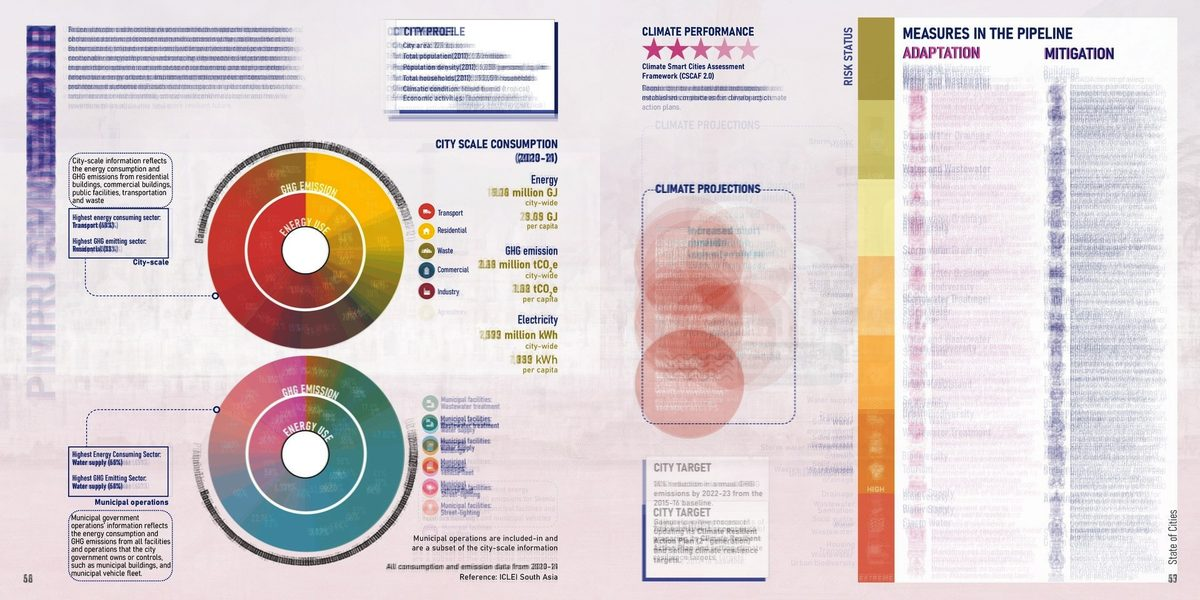
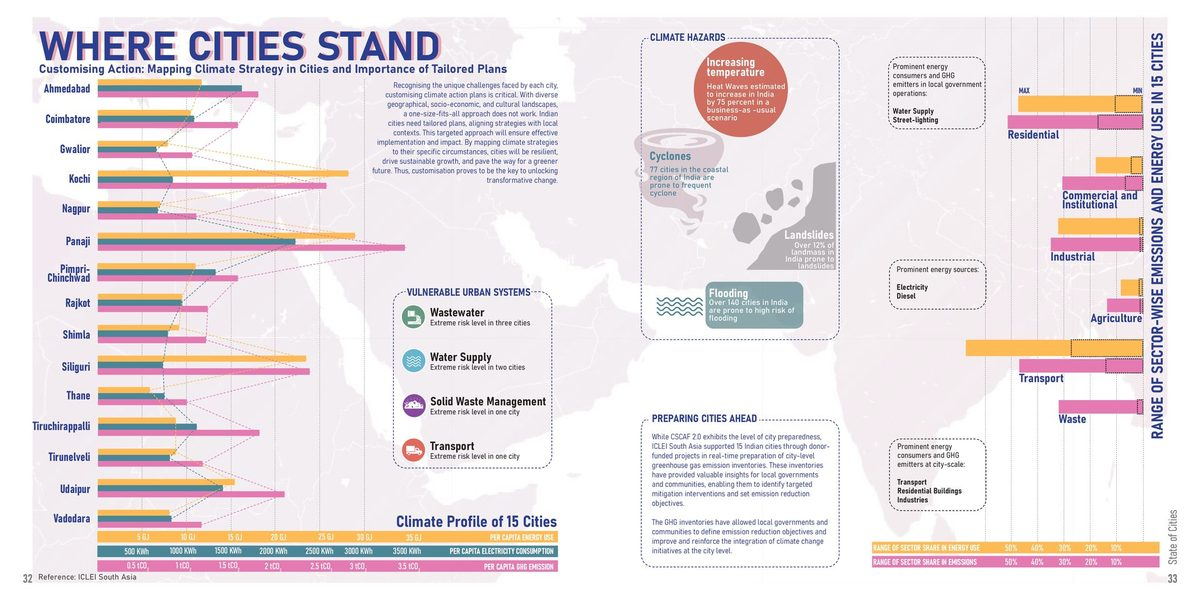
feat(state-of-cities): city carousel replaces the ghost viewer; Where Cities Stand added
- chapter 03: stat row → SOC_06 full-width plate (fig.05) → full-width carousel of the fifteen
  spreads (prev/next, fifteen-segment rule, arrow keys, swipe, lightbox on click) → text | ledger;
  a ledger row turns the carousel to that city
- ghost.jpg dropped from the page and the homepage thumb (SOC_06 instead); ghost.py kept
- phone pager shows arrows + position only

Claude-Session: https://claude.ai/code/session_01DqT15YNr42vTZSfnF1pZUZ

diff --git a/src/assets/js/main.js b/src/assets/js/main.js
@@ -331,7 +331,7 @@
         a.addEventListener("click", function (ev) { ev.preventDefault(); closeProject(); });
       });
       pageBody.appendChild(clone);
-      initViewer(clone);
+      initCarousel(clone);
       initLightbox(clone);
       pageBody.hidden = false;
       if (jsonBody) jsonBody.hidden = true;
@@ -492,93 +492,85 @@
     if (lbLastFocus && lbLastFocus.focus) { try { lbLastFocus.focus({ preventScroll: true }); } catch (e) {} }
   }
 
-  /* ---------- ghost viewer — one averaged plate that resolves into a city from its ledger ----------
-     Hover (mouse only) or focus a ledger row: the city image is shown once it has decoded, so the
-     crossfade never pops; leave and it returns to the ghost (or to the held city). Click / Enter
-     holds; click again or Esc releases. Touch has no hover, so tap = hold. Clicking the image
-     opens the lightbox on the fifteen cities, at the held one. The fifteen resolve renditions are
-     prefetched once the viewer scrolls into view. Without JS the rows are plain links. */
-  function initViewer(root) {
+  /* ---------- city carousel — one spread at full width; the ledger beside the text is its index ----------
+     Prev / next links, the fifteen-segment rule and the ledger rows all turn to a city; arrow keys
+     work while focus is inside the chapter; swipe on touch. The image is swapped only after it has
+     decoded (a short fade out / in, never a pop). Clicking the image opens the lightbox on the full
+     set at the current city. The 1024px renditions are prefetched once the carousel is near view. */
+  function initCarousel(root) {
     if (!root) return;
-    root.querySelectorAll(".chap--viewer").forEach(function (chap) {
-      var v = chap.querySelector(".viewer"), city = v && v.querySelector(".viewer__city");
-      var capN = v && v.querySelector(".plate__cap .n"), capT = v && v.querySelector(".plate__cap .t");
+    root.querySelectorAll(".chap--carousel").forEach(function (chap) {
+      var car = chap.querySelector("[data-carousel]");
       var rows = Array.prototype.slice.call(chap.querySelectorAll(".ledger a[data-src]"));
-      if (!v || !city || !rows.length) return;
-      var ghostN = capN.textContent, ghostT = capT.innerHTML;
-      var canHover = window.matchMedia("(hover:hover)").matches;
-      var held = null, timer = null, token = 0;
+      if (!car || !rows.length) return;
+      var img = car.querySelector(".carousel__img"), capN = car.querySelector(".plate__cap .n"), capT = car.querySelector(".plate__cap .t");
+      var prev = car.querySelector("[data-step='-1']"), next = car.querySelector("[data-step='1']"), pos = car.querySelector(".carousel__pos");
+      var segs = Array.prototype.slice.call(car.querySelectorAll(".carousel__rule a"));
+      var n = rows.length, idx = 0, token = 0;
+      var two = function (k) { return (k < 10 ? "0" : "") + k; };
 
-      function show(row) {
-        var my = ++token;
-        capN.textContent = row.dataset.fig;
-        capT.textContent = row.dataset.cap;
-        var im = new Image();
-        im.src = row.dataset.src;
-        var ready = im.decode ? im.decode() : Promise.resolve();
-        ready.then(function () {
+      function show(i, scroll) {
+        idx = (i + n) % n;
+        var row = rows[idx], my = ++token;
+        rows.forEach(function (r, k) { r.classList.toggle("on", k === idx); });
+        segs.forEach(function (a, k) { a.classList.toggle("on", k === idx); });
+        var p = rows[(idx - 1 + n) % n], q = rows[(idx + 1) % n];
+        prev.innerHTML = "(&larr;<span class=\"long\"> " + p.dataset.city.toLowerCase() + "</span>)"; prev.href = p.href;
+        next.innerHTML = "(<span class=\"long\">" + q.dataset.city.toLowerCase() + " </span>&rarr;)"; next.href = q.href;
+        pos.innerHTML = two(idx + 1) + " / " + two(n) + " · " + row.dataset.city.toLowerCase() + "<span class=\"long\"> · " + (row.dataset.cap.split(" · ")[1] || "").replace(" inventory", "") + "</span>";
+        var im = new Image(); im.src = row.dataset.src;
+        car.classList.add("is-swapping");
+        (im.decode ? im.decode() : Promise.resolve()).then(function () {
           if (my !== token) return;
-          city.src = row.dataset.src; city.alt = row.dataset.city;
-          v.classList.add("on"); row.classList.remove("err");
-        }, function () {
-          if (my !== token) return;
-          row.classList.add("err"); reset(true);
-        });
+          img.src = row.dataset.src; img.alt = row.dataset.city;
+          capN.textContent = row.dataset.fig; capT.textContent = row.dataset.cap;
+          car.classList.remove("is-swapping"); row.classList.remove("err");
+        }, function () { if (my === token) { car.classList.remove("is-swapping"); row.classList.add("err"); } });
+        if (scroll) car.scrollIntoView({ block: "nearest", behavior: "smooth" });
       }
-      function reset(force) {
-        if (held && !force) { show(held); return; }
-        token++;
-        v.classList.remove("on");
-        city.removeAttribute("src"); city.alt = "";
-        capN.textContent = ghostN; capT.innerHTML = ghostT;
-      }
-      function hold(row) {
-        rows.forEach(function (r) { r.classList.remove("on"); });
-        if (held === row) { held = null; reset(); }
-        else { held = row; row.classList.add("on"); show(row); }
-      }
-      rows.forEach(function (row) {
-        if (canHover) {
-          row.addEventListener("pointerenter", function () { clearTimeout(timer); show(row); });
-          row.addEventListener("pointerleave", function () { timer = setTimeout(function () { reset(); }, 120); });
-        }
-        row.addEventListener("focus", function () { show(row); });
-        row.addEventListener("blur", function () { reset(); });
-        row.addEventListener("click", function (e) { e.preventDefault(); hold(row); });
-      });
-      v.addEventListener("pointerenter", function () { clearTimeout(timer); });
+      prev.addEventListener("click", function (e) { e.preventDefault(); show(idx - 1); });
+      next.addEventListener("click", function (e) { e.preventDefault(); show(idx + 1); });
+      segs.forEach(function (a, k) { a.addEventListener("click", function (e) { e.preventDefault(); show(k); }); });
+      rows.forEach(function (r, k) { r.addEventListener("click", function (e) { e.preventDefault(); show(k, true); }); });
       chap.addEventListener("keydown", function (e) {
-        if (e.key === "Escape" && held) { held = null; rows.forEach(function (r) { r.classList.remove("on"); }); reset(); }
+        if (e.key === "ArrowRight") { e.preventDefault(); show(idx + 1); }
+        else if (e.key === "ArrowLeft") { e.preventDefault(); show(idx - 1); }
       });
-
-      // the image opens the lightbox on the fifteen, in ledger order, at the held city
+      // swipe on touch
+      var px = null, box = car.querySelector(".plate__img");
+      box.addEventListener("pointerdown", function (e) { if (e.pointerType !== "mouse") px = e.clientX; }, { passive: true });
+      box.addEventListener("pointerup", function (e) {
+        if (px === null) return;
+        var dx = e.clientX - px; px = null;
+        if (Math.abs(dx) > 40) { e.preventDefault(); show(dx < 0 ? idx + 1 : idx - 1); box.dataset.swiped = "1"; }
+      });
+      // the image opens the lightbox on the full set, at the current city
       var items = rows.map(function (row) {
         return { src: row.dataset.full || row.dataset.src, alt: row.dataset.city, w: row.dataset.w, h: row.dataset.h, n: row.dataset.fig, t: row.dataset.cap };
       });
-      var box = v.querySelector(".plate__img");
       box.classList.add("lb-src");
       box.setAttribute("tabindex", "0");
       box.setAttribute("role", "button");
       box.setAttribute("aria-label", "open the city spreads");
-      function openSet() { openLightbox(items, held ? rows.indexOf(held) : 0, box); }
+      function openSet() { if (box.dataset.swiped) { delete box.dataset.swiped; return; } openLightbox(items, idx, box); }
       box.addEventListener("click", openSet);
       box.addEventListener("keydown", function (e) { if (e.key === "Enter" || e.key === " ") { e.preventDefault(); openSet(); } });
-
-      // prefetch the resolve renditions once the viewer is near the viewport
+      // prefetch the renditions once the carousel is near the viewport
       function prefetch() { rows.forEach(function (row) { var im = new Image(); im.src = row.dataset.src; }); }
       if ("IntersectionObserver" in window) {
         var io = new IntersectionObserver(function (en) {
           if (en.some(function (e) { return e.isIntersecting; })) { prefetch(); io.disconnect(); }
-        }, { rootMargin: "200px" });
-        io.observe(v);
+        }, { rootMargin: "300px" });
+        io.observe(car);
       } else { prefetch(); }
+      show(0);
     });
   }
 
   function initLightbox(root) {
     if (!root) return;
     var imgs = Array.prototype.slice.call(root.querySelectorAll(".plate__img img, .strip img, .g__frame img"))
-      .filter(function (img) { return !img.closest(".viewer"); }); // the ghost viewer registers its own set
+      .filter(function (img) { return !img.closest("[data-carousel]"); }); // the city carousel registers its own set
     if (!imgs.length) return;
     var items = imgs.map(function (img) {
       var c = captionFor(img);
@@ -596,6 +588,6 @@
       });
     });
   }
-  initViewer(document.querySelector("article.detail"));
+  initCarousel(document.querySelector("article.detail"));
   initLightbox(document.querySelector("article.detail"));
 })();

diff --git a/src/assets/css/main.css b/src/assets/css/main.css
@@ -437,19 +437,26 @@ body.lb-open{overflow:hidden;}
 .stats .l{font-family:var(--mono);font-size:11px;letter-spacing:.06em;color:var(--faint-2);margin-top:10px;}
 .stats .src{grid-column:1 / -1;font-size:12.5px;color:var(--faint);}
 
-/* ---------- ghost viewer: one averaged plate, pinned, that resolves into a city from the ledger ----------
-   The pin wrapper is a full-width item of the same grid as the text and the ledger, so it stays
-   pinned for the whole ledger. top = header height; the padding closes the slot under it. */
-.chap--viewer{row-gap:40px;}
-.chap--viewer .chap__txt{position:static;}
-.chap__pin{grid-column:1 / -1;position:sticky;top:62px;z-index:2;background:var(--paper);padding-top:26px;padding-bottom:12px;}
-.viewer{width:clamp(320px,calc(2 * (100vh - 88px - 460px)),100%);margin:0 auto;}
-.viewer .plate__img{aspect-ratio:2 / 1;overflow:hidden;}
-.viewer .plate__img > img{position:absolute;inset:0;width:100%;height:100%;object-fit:contain;transition:opacity .45s cubic-bezier(.16,1,.3,1);}
-.viewer .viewer__city{opacity:0;}
-.viewer.on .viewer__city{opacity:1;}
-.viewer .plate__cap{max-width:none;}
-.viewer__short,.touch-only,.js-only{display:none;}
+/* ---------- city carousel: one spread at full width, a mono pager, a fifteen-segment rule ----------
+   The ledger beside the text is its index: clicking a row turns to that city. */
+.chap--carousel{row-gap:40px;}
+.chap--carousel .chap__txt{position:static;}
+.carousel .plate__img{aspect-ratio:2 / 1;}
+.carousel__img{transition:opacity .35s cubic-bezier(.16,1,.3,1);}
+.carousel.is-swapping .carousel__img{opacity:0;}
+.carousel .plate__cap{max-width:none;}
+.carousel__nav{display:flex;align-items:baseline;justify-content:space-between;gap:16px;margin-top:16px;
+  font-family:var(--mono);font-size:11.5px;letter-spacing:.04em;color:var(--faint-2);}
+.carousel__nav a{color:var(--mute);text-decoration:none;white-space:nowrap;}
+.carousel__nav a:hover,.carousel__nav a:focus-visible{color:var(--ink);}
+.carousel__pos{color:var(--ink);text-align:center;}
+.carousel__rule{display:flex;gap:3px;height:12px;margin-top:12px;}
+.carousel__rule a{flex:1;position:relative;}
+.carousel__rule a::after{content:"";position:absolute;left:0;right:0;top:5px;height:2px;background:var(--line);opacity:.55;}
+.carousel__rule a:hover::after,.carousel__rule a:focus-visible::after{opacity:1;}
+.carousel__rule a.on::after{background:var(--accent);opacity:1;}
+.carousel__rule a:focus-visible{outline:none;} .carousel__rule a:focus-visible::after{height:4px;top:4px;}
+.short,.touch-only,.js-only{display:none;}
 .js .js-only{display:inline;}
 .ledger{margin:0;padding:0;list-style:none;}
 .ledger a{display:grid;grid-template-columns:9.5em 1fr 3.4em 4.8em;align-items:center;gap:0 10px;padding:8px 0;
@@ -459,12 +466,9 @@ body.lb-open{overflow:hidden;}
 .ledger__b{position:absolute;inset:0 auto 0 0;background:var(--accent);transition:background .2s;}
 .ledger__v,.ledger__s{font-family:var(--mono);font-size:10.5px;color:var(--faint);}
 .ledger__s{color:var(--faint-2);letter-spacing:0;text-align:right;}
-.ledger__h{display:none;font-family:var(--mono);font-size:10px;letter-spacing:.06em;color:var(--accent);text-align:right;}
 .ledger a:focus-visible{color:var(--ink);outline:2px solid var(--accent);outline-offset:2px;}
 .ledger a.on{color:var(--accent);}
 .ledger a.on .ledger__b{background:var(--ink);}
-.ledger a.on .ledger__s{display:none;}
-.ledger a.on .ledger__h{display:block;}
 .ledger a.err .ledger__v::after{content:" (missing)";color:var(--faint-2);}
 .ledger__u{font-family:var(--mono);font-size:10px;color:var(--faint-2);margin-top:8px;text-align:right;}
 @media(hover:hover){
@@ -475,12 +479,6 @@ body.lb-open{overflow:hidden;}
   .touch-only{display:inline;} .hover-only{display:none;}
   .ledger a{min-height:44px;}
 }
-@media(max-height:640px){
-  .chap__pin{position:static;padding-top:0;}
-  .viewer{width:100%;}
-}
-/* inside the homepage overlay the panel scrolls, not the window, and there is no header above */
-.pv__page .chap__pin{top:0;padding-top:0;}
 
 /* (outcome): the landing before (next) — same (label)/value vocabulary as the meta row */
 .detail__outcome{display:grid;grid-template-columns:repeat(12,1fr);column-gap:clamp(20px,3vw,40px);row-gap:28px;
@@ -531,9 +529,8 @@ body.lb-open{overflow:hidden;}
   .detail__outcome > div{grid-column:1 / -1;}
   .chap--coda .chap__txt,.chap--coda .chap__pl{grid-column:1 / -1;grid-row:auto;}
   .stats{grid-template-columns:1fr 1fr;}
-  .chap__pin{top:61px;padding-top:0;}
-  .viewer{width:100%;}
-  .viewer__long{display:none;} .viewer__short{display:inline;}
+  .long{display:none;} .short{display:inline;}
+  .carousel__nav{margin-top:12px;}
   .ledger a{grid-template-columns:7.5em 1fr 3.4em;} .ledger__s{display:none;}
   .g--lg,.g--md,.g--sm,.g--tall{grid-column:1 / -1;}
   .g--xs{grid-column:span 6;}

diff --git a/src/projects/2-state-of-cities.md b/src/projects/2-state-of-cities.md
@@ -7,7 +7,7 @@ topics: [carbon, data]
 size: wide
 offset: ""
 qsize: 25px
-fig: fig.05–19 — fifteen cities, one instrument · niua
+fig: fig.05 — where cities stand · niua
 role: research · data · design [confirm]
 period: 2023 [confirm]
 context: niua · c-cube · fifteen indian cities
@@ -47,8 +47,9 @@ chapters:
         - { n: "24 M", l: "people" }
         - { n: "38 Mt", l: "CO₂e · one year" }
         - { n: "319", l: "actions · 147 adaptation + 172 mitigation" }
-    viewer:
-      ghost: { src: /assets/projects/state-of-cities/05.jpg, w: 1800, h: 900, fig: "fig.05–19", cap: "The fifteen city spreads, averaged into one image. What stays sharp is the template; what blurs is the city.", cap_short: "Fifteen spreads, averaged." }
+    plates:
+      - { src: /assets/projects/state-of-cities/22.jpg, w: 1800, h: 900, fig: fig.05, cap: "Where cities stand — the climate profile of fifteen cities on one page: per-capita energy, electricity and emissions, and the range of each sector's share." }
+    carousel:
       data: socCities
       max: 4
       unit: "tCO₂e per person, most to least · stars = CSCAF 2.0"
@@ -58,7 +59,7 @@ chapters:
     title: What the loop needs
     narrow: true
     plates:
-      - { src: /assets/projects/state-of-cities/21.jpg, w: 1800, h: 900, fig: fig.20, cap: "Planning climate action — the book's closing loop: assess, commit, plan, implement, monitor, revise." }
+      - { src: /assets/projects/state-of-cities/21.jpg, w: 1800, h: 900, fig: fig.21, cap: "Planning climate action — the book's closing loop: assess, commit, plan, implement, monitor, revise." }
 outcome:
   built: "A 72-page public report — four sections, fifteen city profiles on one template, and the first side-by-side reading of Indian city inventories."
   recognised: "Published by NIUA's Climate Centre for Cities (C-Cube) under the Ministry of Housing and Urban Affairs. [confirm]"

diff --git a/docs/plans/2026-09-14-state-of-cities.md b/docs/plans/2026-09-14-state-of-cities.md
@@ -15,6 +15,14 @@ first person and terse.
 
 ## Approved direction
 
+> **Revised after first deploy (2026-09-14):** the ghost viewer did not read well live and the
+> city spreads were too small. Chapter 03 is now: stat row → `SOC_06` *Where Cities Stand* as a
+> full-width plate (fig.05) → a **full-width city carousel** (fig.06–20; prev/next, a fifteen-
+> segment rule, arrow keys, swipe, lightbox on click) → text | ledger, where clicking a row turns
+> the carousel to that city. The ghost survives only as `scripts/ghost.py`. The homepage thumb is
+> `SOC_06`. The sections below describe the ghost design as reviewed; the state table's hover /
+> held / prefetch / decode-gating / a11y rules carry over to the carousel unchanged.
+
 `~/.gstack/projects/raghavk31-raghavkohli.xyz/designs/state-of-cities-20260914/D-final.html`
 (render: `variant-D-final.png`; `approved.json`). Real site CSS, real spreads, working JS —
 hover, hold, Esc, touch and prefetch all behave as specified below. Round one (A grid /
